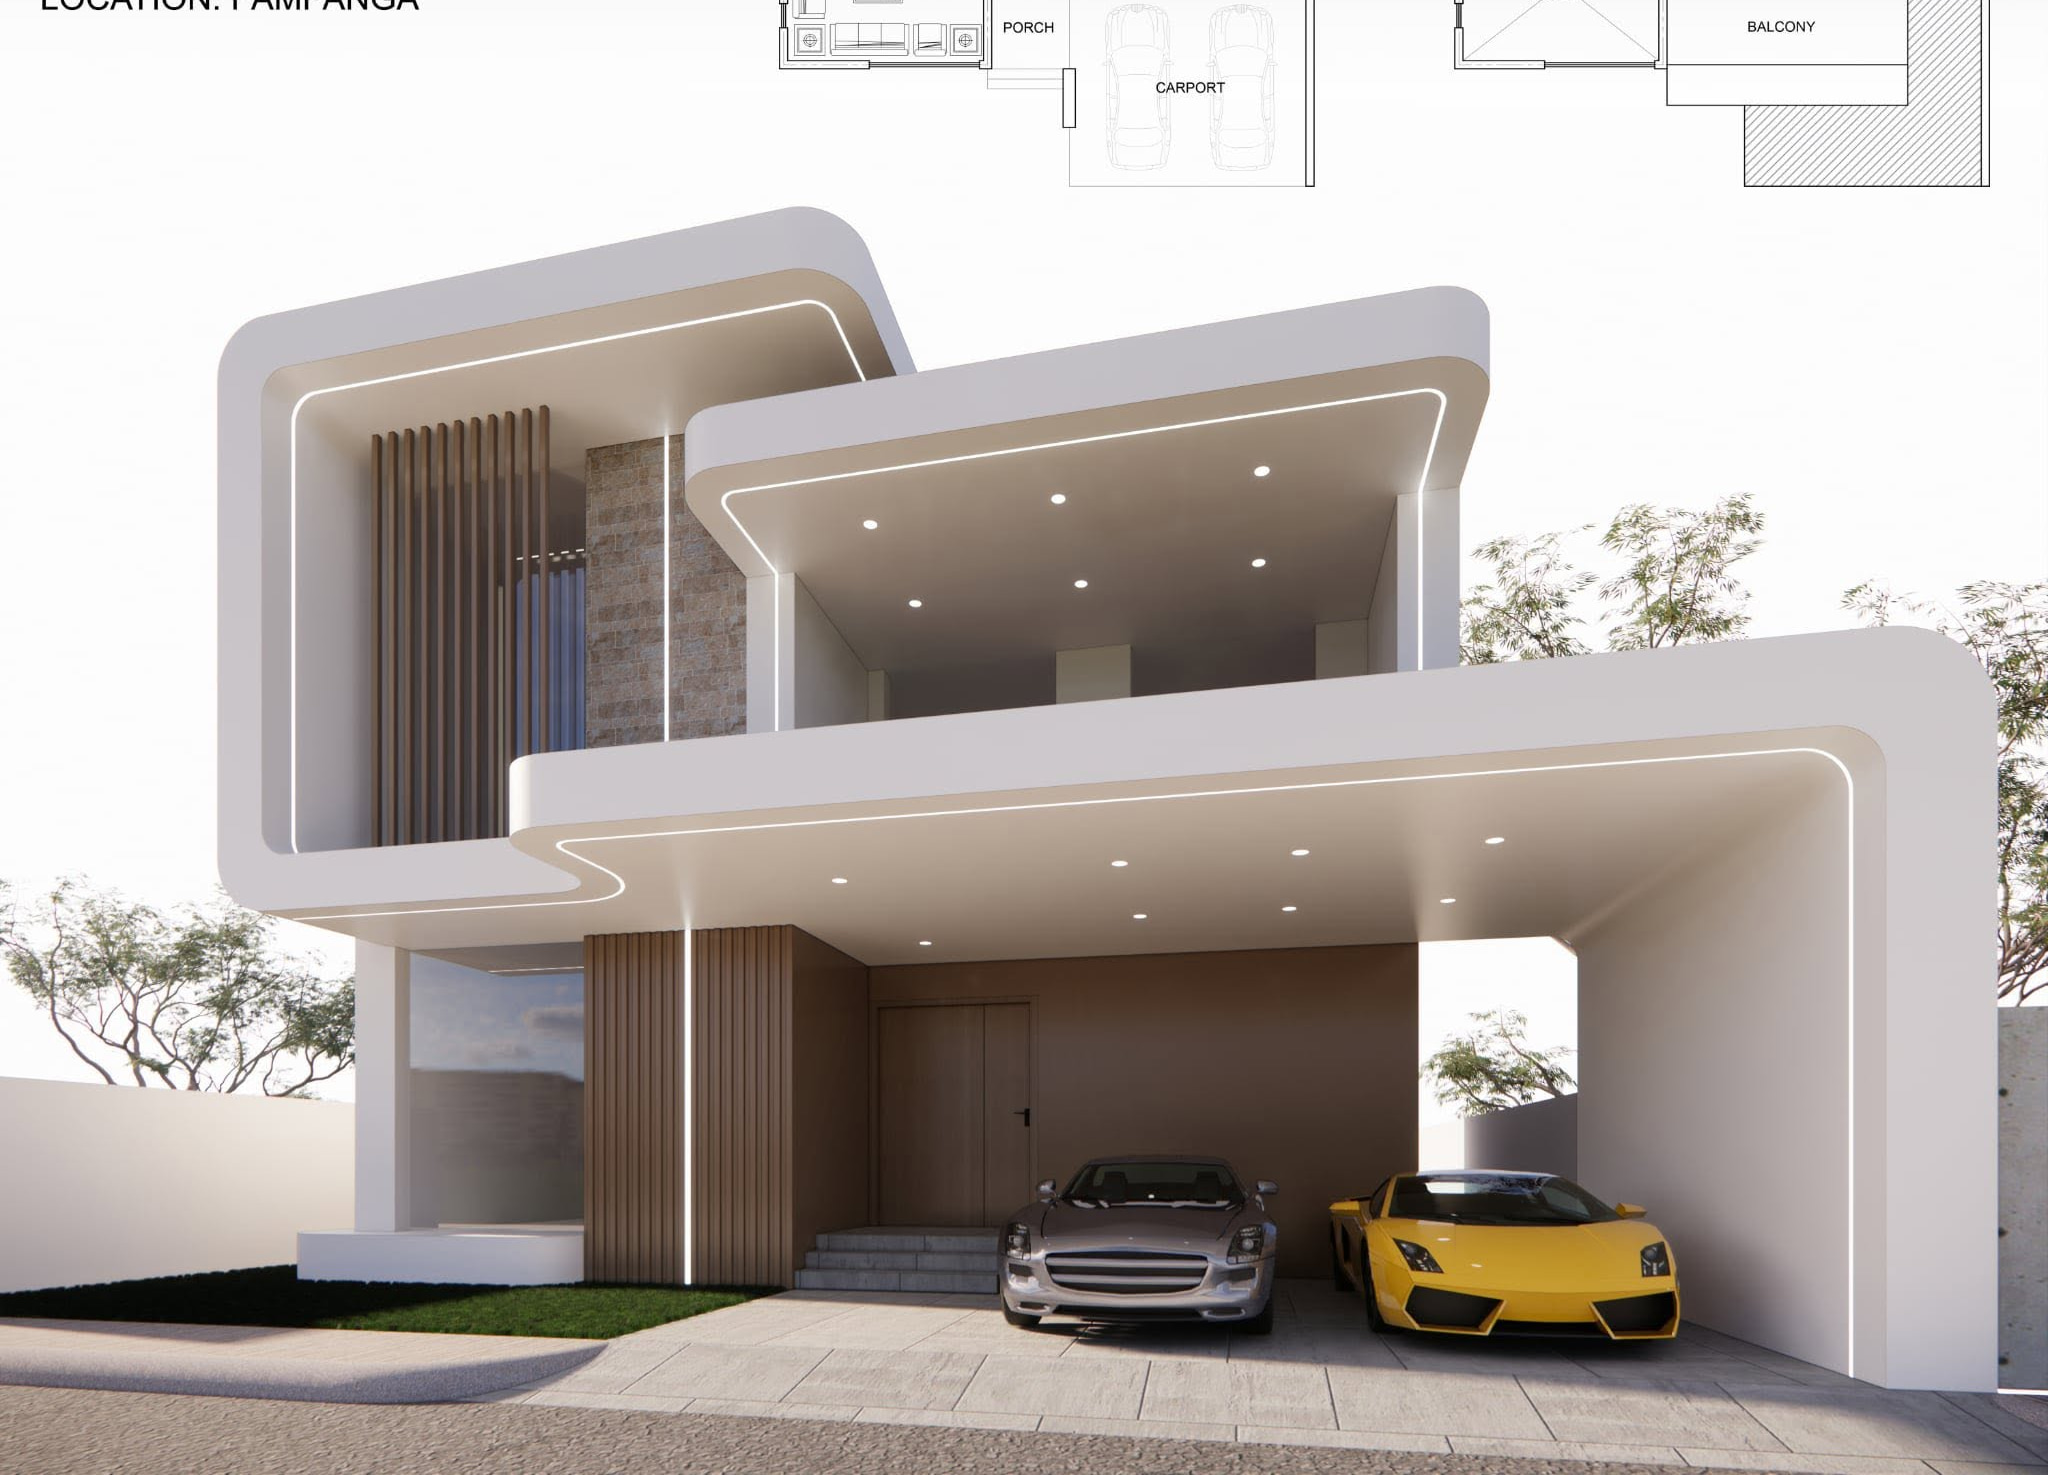
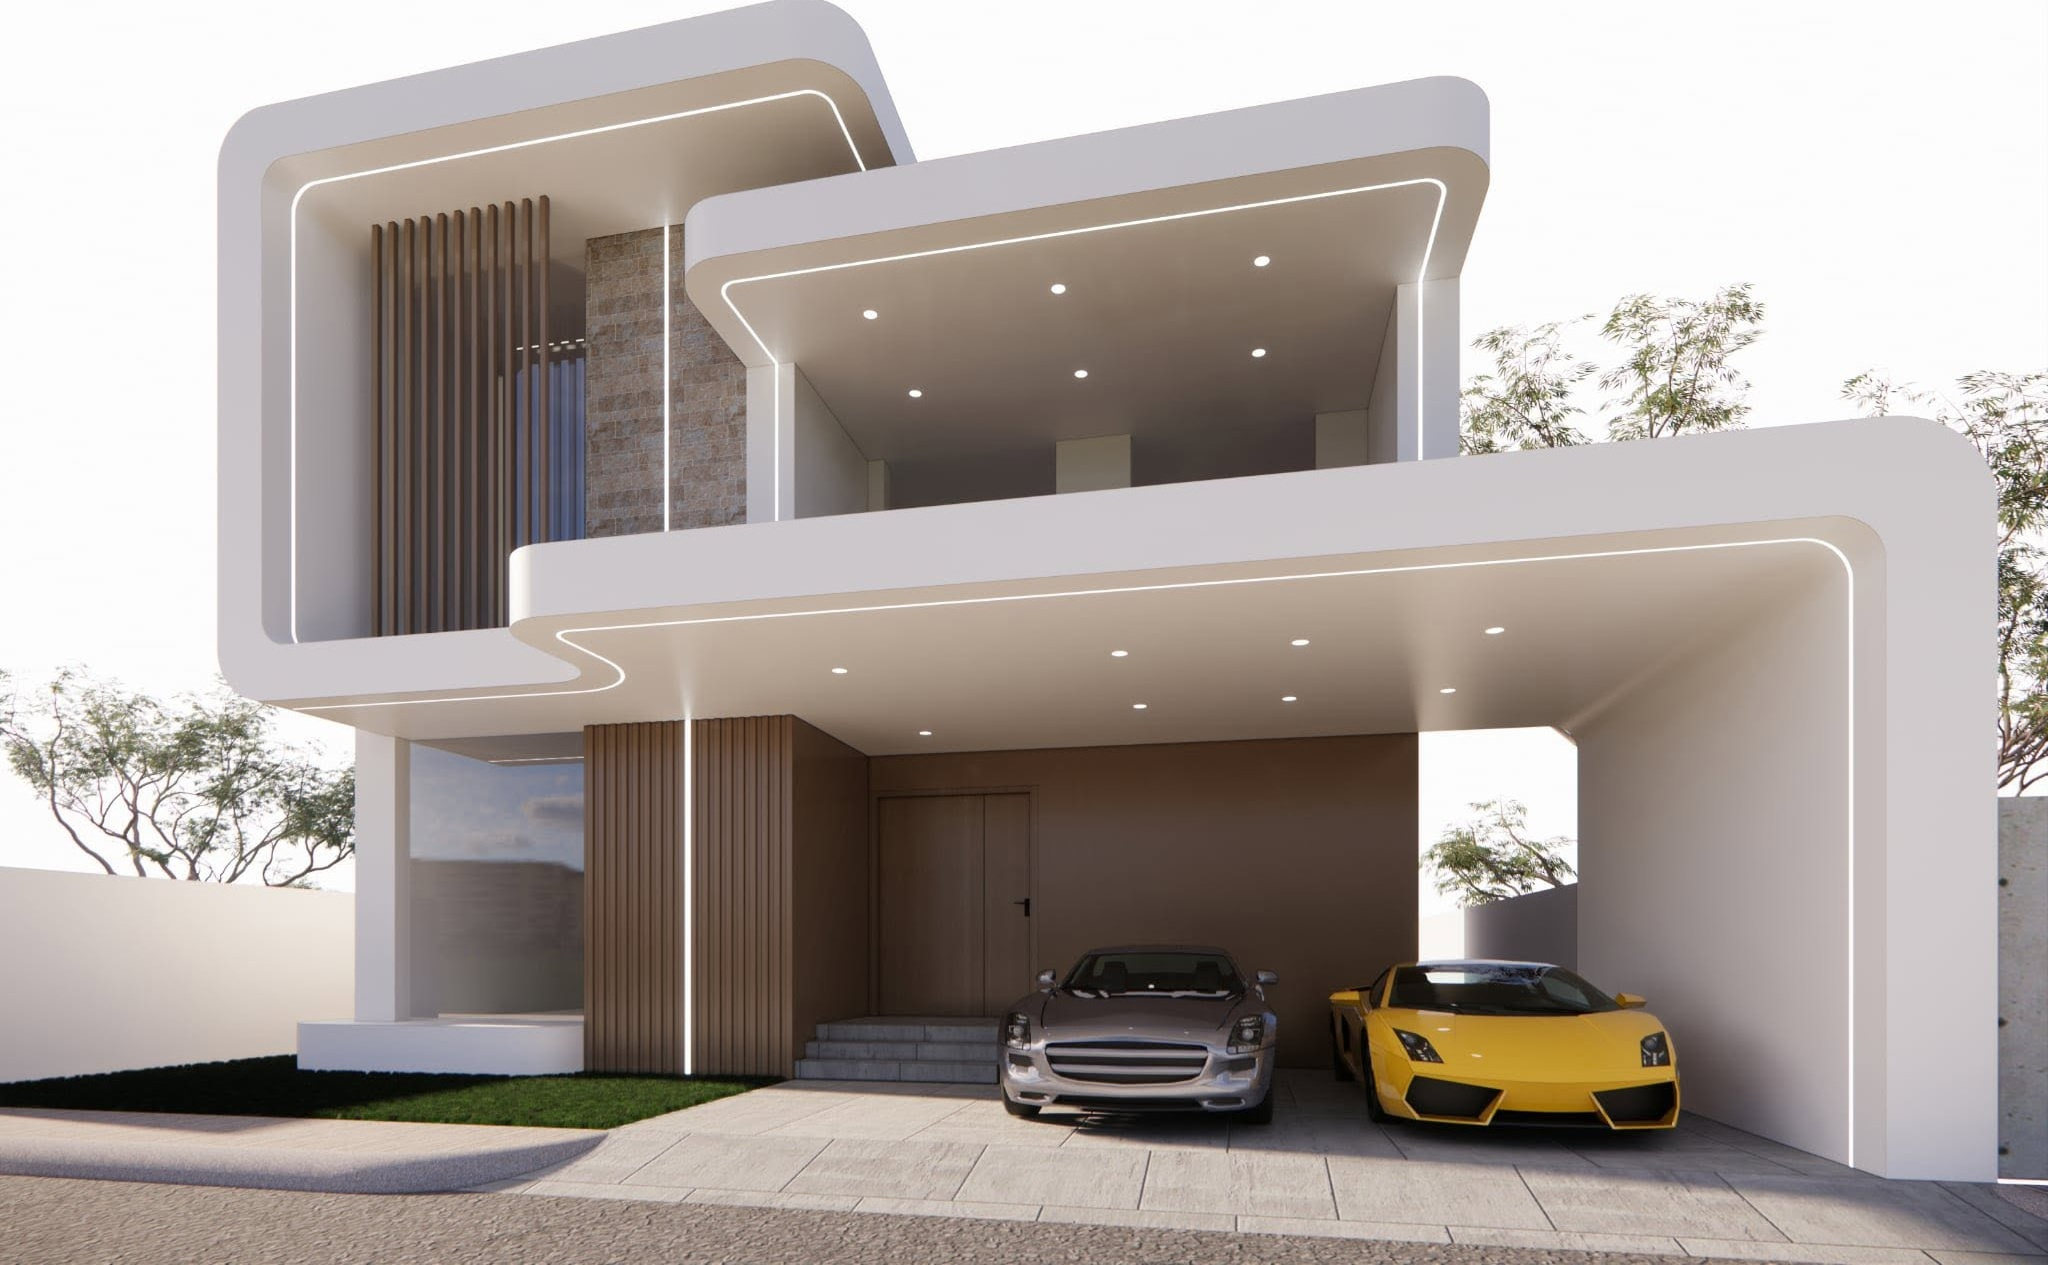
fix(about): clean cropped villa photograph, remove CAD floorplan remnants, and display full architectural width

diff --git a/src/components/About.tsx b/src/components/About.tsx
@@ -52,16 +52,16 @@ export default function About() {
         <div className="grid grid-cols-1 lg:grid-cols-12 gap-12 lg:gap-16 items-start">
           {/* Left Column: Image with Architectural Monograph Framing */}
           <div data-reveal data-reveal-delay="0.1" className="lg:col-span-5 relative">
-            <div className="relative aspect-[4/5] w-full overflow-hidden border border-border bg-surface">
+            <div className="relative aspect-[4/3.5] sm:aspect-[4/3] w-full overflow-hidden border border-border bg-surface rounded-xl sm:rounded-2xl shadow-sm">
               <Image
                 src="/images/project-1.jpg"
                 alt="RBC Builders completed luxury estate in Pampanga"
                 fill
                 quality={95}
                 sizes="(max-width: 1024px) 100vw, 40vw"
-                className="object-cover object-center"
+                className="object-cover object-center transition-transform duration-700 hover:scale-[1.02]"
               />
-              <div className="absolute inset-0 bg-gradient-to-t from-black/80 via-transparent to-transparent" />
+              <div className="absolute inset-0 bg-gradient-to-t from-black/85 via-black/20 to-transparent" />
 
               {/* Monograph caption */}
               <div className="absolute bottom-6 inset-x-6">
